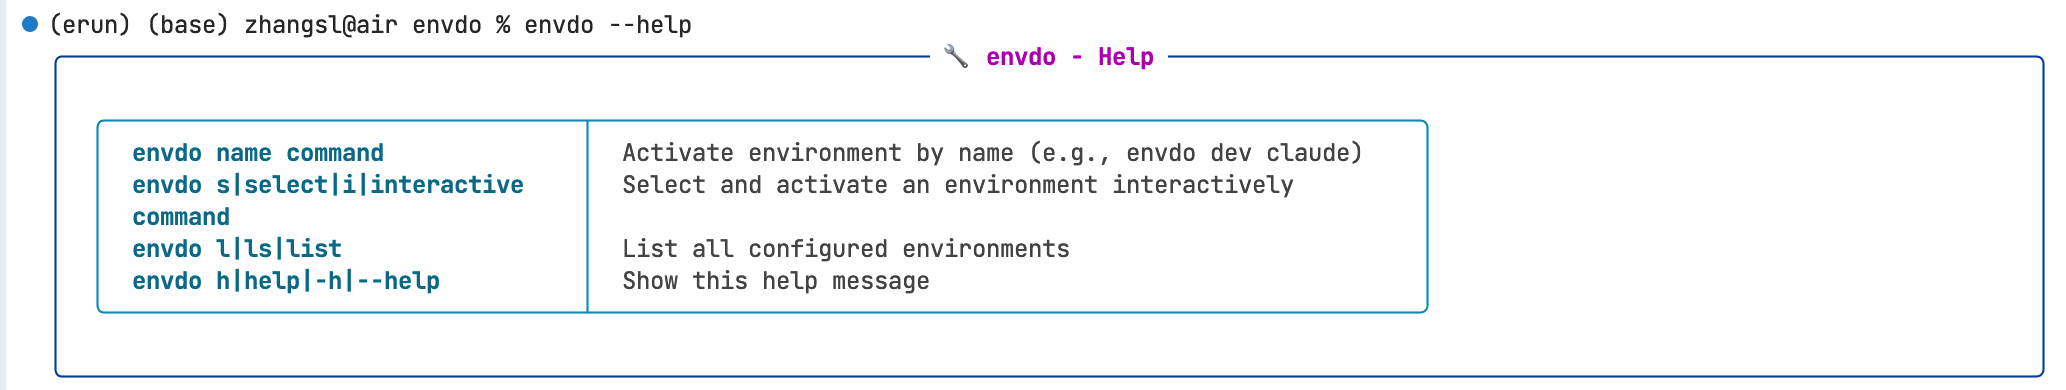
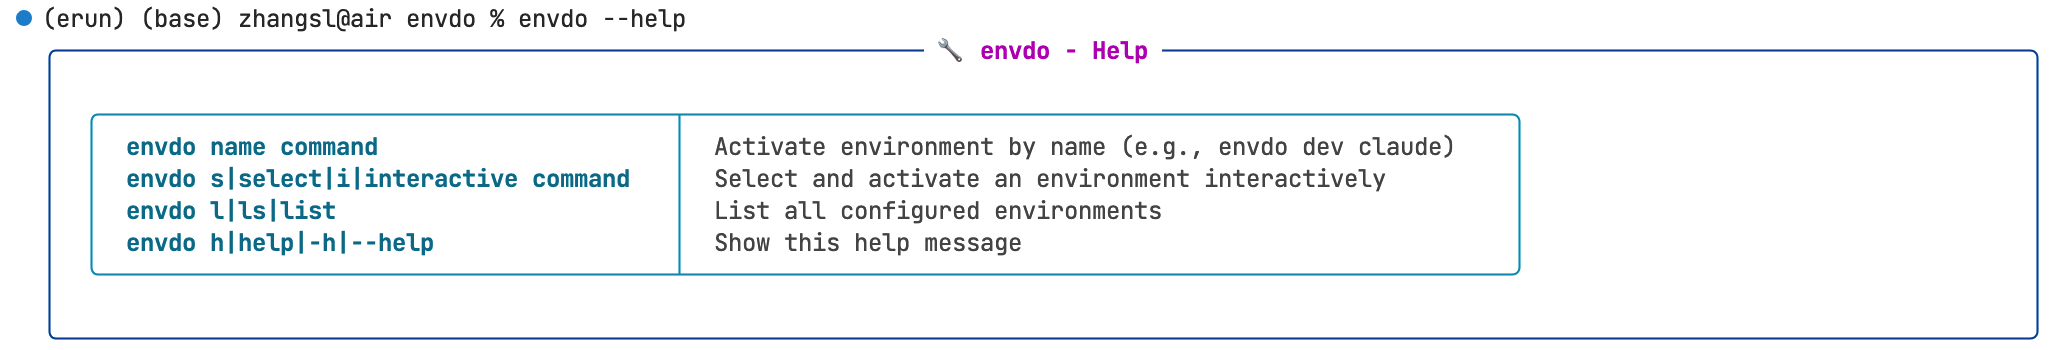
style(utils): 调整帮助表格中命令列的宽度为37
将命令列的宽度从30调整为37，以更好地适应较长的命令显示

diff --git a/envdo/utils.py b/envdo/utils.py
@@ -148,7 +148,7 @@ def print_help():
         padding=(0, 2)
     )
     
-    help_table.add_column('Command', style='bold cyan', width=30)
+    help_table.add_column('Command', style='bold cyan', width=37)
     help_table.add_column('Description', style='white', width=55)
     
     help_table.add_row('[bold]envdo name command[/bold]', 'Activate environment by name (e.g., envdo dev claude)')
